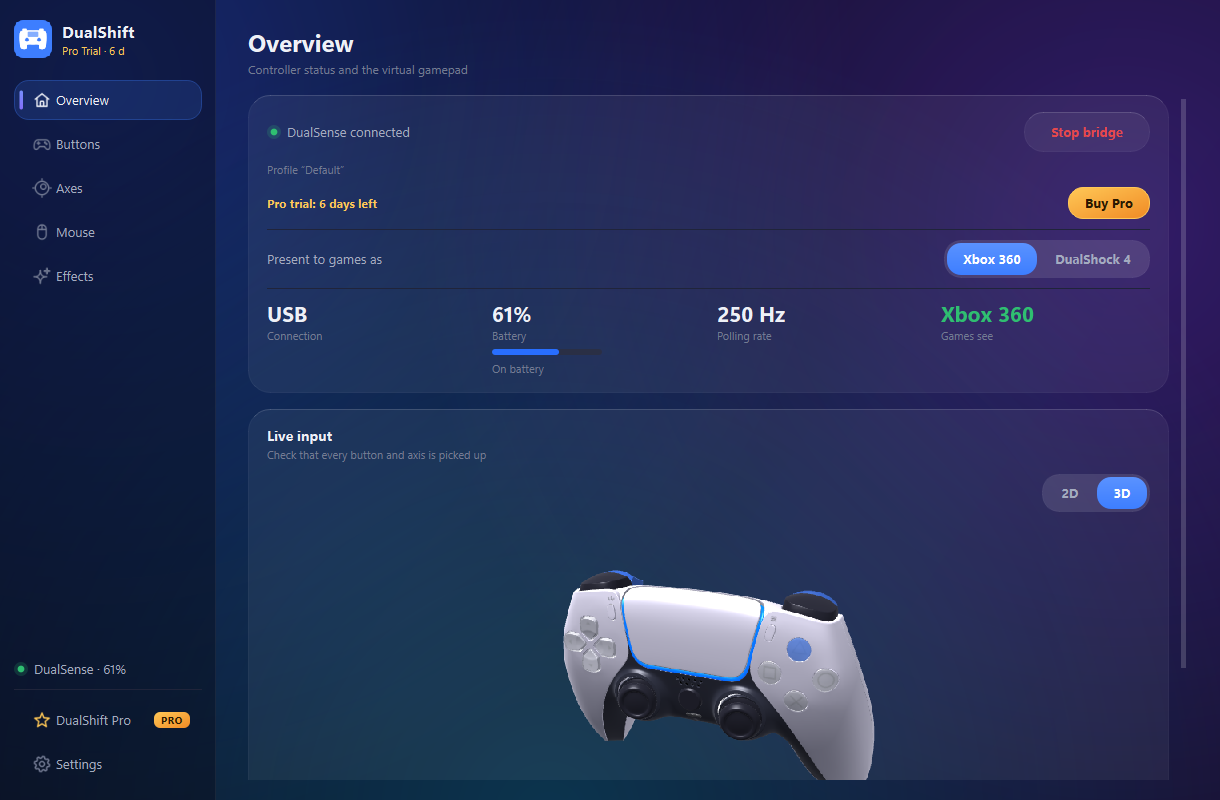
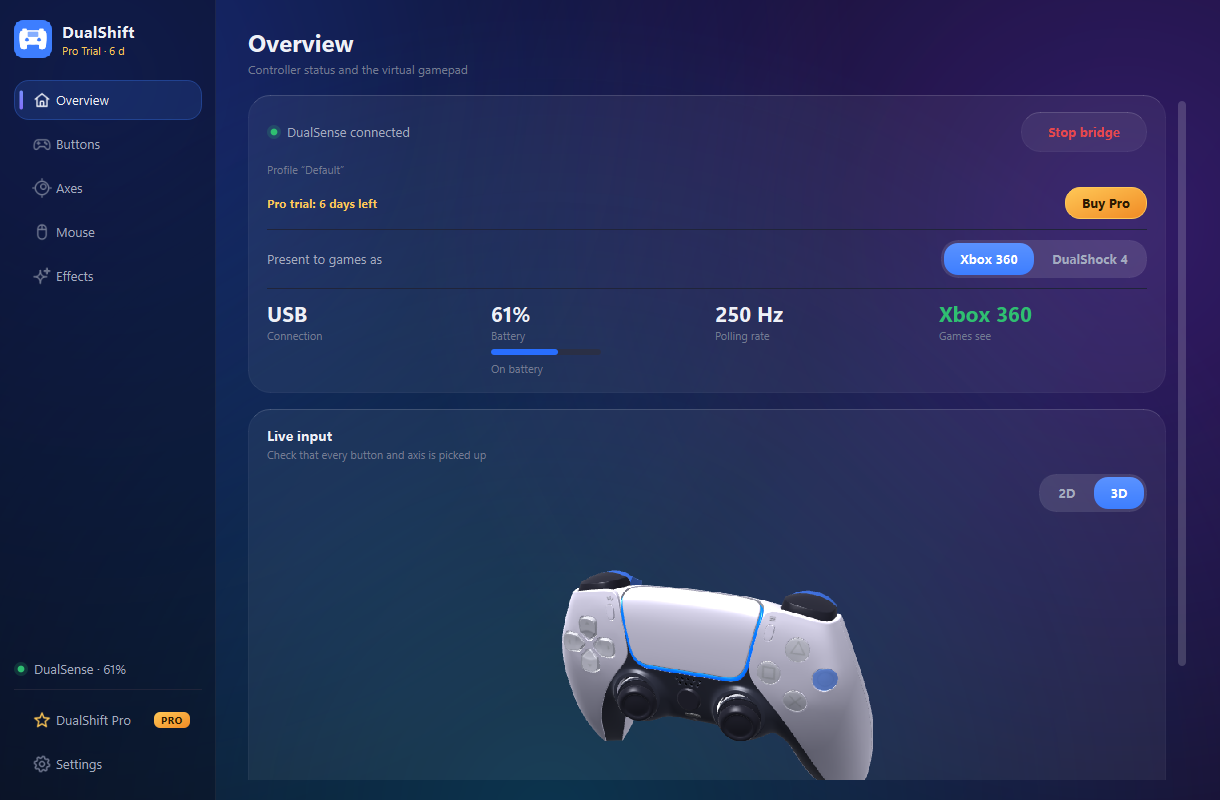
1.0.5: символы кнопок, плавные ползунки и прокрутка, быстрее смена профиля, исправления интерфейса

diff --git a/docs/release-notes-1.0.5.md b/docs/release-notes-1.0.5.md
@@ -1,0 +1,30 @@
+**Free forever, Pro when you want more.** Windows 10 and 11, 64-bit.
+
+**What's new in 1.0.5 — polish**
+
+- **Real button symbols.** Cross, circle, square and triangle are now drawn like on the controller — the same size and weight everywhere: in the button layout, the turbo buttons and every list where you pick a button.
+- **Smooth, rounded sliders.** A rounded track and a round knob that glides to its new value, grows under the cursor and jumps to wherever you click on the track.
+- **Smooth scrolling.** The mouse wheel glides through the pages instead of jumping.
+- **No more settings changed by accident.** Scrolling a page over a slider or a list used to change its value. Now the wheel scrolls the page, and a slider or list reacts to the wheel only after you click it.
+- **Faster.** Switching the profile, the language or the theme is about ten times quicker, the window opens sooner, and scrolling redraws less.
+- **Fixed:** after switching pages very quickly, a page could stay a few pixels lower than it should.
+
+Everything from 1.0.4 is here too: the free version, DualShift Pro, the new look, the stick drift check and the light bar effects.
+
+**Installing**
+
+Run `DualShift Setup.exe`. Windows shows a SmartScreen warning — the installer is not code-signed yet: **More info → Run anyway**. Agree to install the bundled ViGEmBus driver when the installer offers it; without it Windows cannot create the virtual controller.
+
+Already have an earlier version? Install on top — your settings, profiles and key stay. If you had **DualShift Demo**, the installer removes it and puts the regular version in its place.
+
+**Verify the download**
+
[1 lines of base64/hex data omitted]
+
+```powershell
+Get-FileHash "$HOME\Downloads\DualShift Setup.exe" -Algorithm SHA256
+```
+
+3D model: "Playstation 5 Dualsense" by AHarmlessPotato (Sketchfab), CC BY 4.0, modified.
+
+Bugs and questions — open an Issue. Please say which Windows version and controller you have, and whether it is connected by USB or Bluetooth.

diff --git a/README.md b/README.md
@@ -176,10 +176,10 @@ key for.
 
 ## Verifying the download
 
-`DualShift Setup.exe` 1.0.4 — 51.0 MB
+`DualShift Setup.exe` 1.0.5 — 51.0 MB
 
 ```
-SHA-256  7b11efb6840a9c73085034dd35ebe9f42c803f55db1bcd153b4bfe0861872c7b
+SHA-256  4c43a772a6aecbf3a445d5d660599ec37a933629ca31bb7e0d8812b28681b008
 ```
 
 Check it in PowerShell before running:
